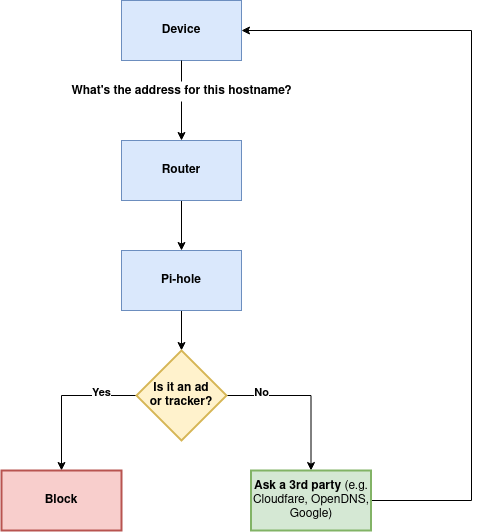
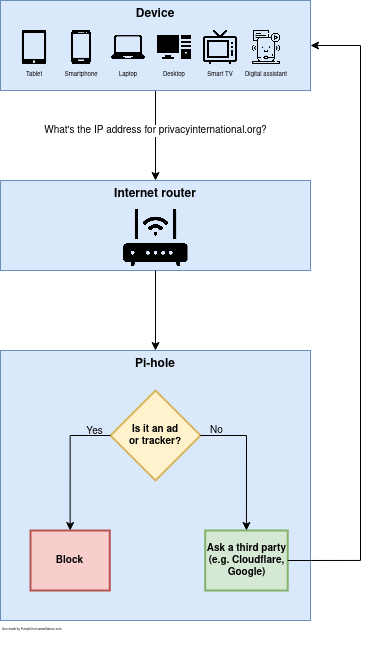
pi-hole update

diff --git a/guide-steps/pi-hole.md b/guide-steps/pi-hole.md
@@ -8,39 +8,31 @@ on your phone, and another on your tablet). In this guide you'll learn how to
 install and setup Pi-Hole, a general purpose network-wide ad-blocker, on a
 Raspberry Pi to block ads on any device connected to your home network.
 
-<!-- In some cases, for instance smart -->
-<!-- TVs, it's not even possible to install an ad-blocker. Pi-Hole is a general -->
-<!-- purpose network-wide ad-blocker, that when installed will block ads on **any** -->
-<!-- device connected to your home network, which means you manage your ad-blocking -->
-<!-- on one place and have these changes automatically pushed to your connected -->
-<!-- devices. -->
-
-<!-- In this guide you'll learn how to install and setup Pi-Hole on a Raspberry Pi. -->
-
 # Body #
 
 ## Overview ##
 
-Pi-hole is a DNS ad-blocker that protects your network from ads and trackers
-without requiring any setup on individual devices. As such, it is able to block
-ads on any network device (e.g. smart appliances), and, unlike browser add-ons,
-Pi-hole will prevent ads from being displayed on any type of software.
+Pi-hole is a general purpose network-wide ad-blocker that protects your network
+from ads and trackers without requiring any setup on individual devices. It is
+able to block ads on any network device (e.g. smart appliances), and, unlike
+browser add-ons, Pi-hole blocks ads on any type of software.
 
 The general setup works as follows (Fig. 1). You install Pi-hole on your server
 (in this case, we're using a Raspberry Pi) and assign it a static IP address. On
 your router, you set the DNS primary server to the Pi-hole IP address. When a
 device connects to your home network, it gets the Pi-hole IP address as its main
-DNS server. When your device looks up the address for a hostname, it contacts
-the Pi-hole. If the host is an ad or tracker, the request is instantly blocked.
-Otherwise, the lookup is performed on some upstream server of your choice (e.g.
-OpenDNS, Cloudflare, GoogleDNS, your ISP).
+DNS server from your router. When your device looks up the address for a
+hostname, it contacts the Pi-hole. If the host is an ad or tracker, the request
+is instantly blocked. Otherwise, the lookup is performed on some upstream server
+of your choice (e.g. OpenDNS, Cloudflare, GoogleDNS, your ISP).
 
 ![Fig. 1: Pi-hole setup overview](../images/Pihole/overview.png?raw=true)
 
 ## Prerequisites ##
 To deploy Pi-hole on your home network, make sure you have all of the following:
 
-- A Raspberry Pi with at least 512MB of RAM (all Raspberry Pi versions satisfy this requirement).
+- A Raspberry Pi with at least 512MB of RAM (all Raspberry Pi versions satisfy
+  this requirement) and Raspbian installed.
 - An SD-card with at least 2GB of free space.
 - Internet connection on your Raspberry Pi. Either via Wi-Fi (if available)
       or via Ethernet cable.
@@ -122,46 +114,20 @@ password. You should now be in the Pi-hole admin panel (Fig. 10).
 ![Fig. 10: Pi-hole admin panel](../images/Pihole/admin.png?raw=true)
 
 ## Setup ##
-Now that you have Pi-hole installed, the last step is configuring your devices
-to use Pi-hole as their DNS server. You can do so in the following ways:
+Now that you have Pi-hole installed, the last step is configuring your network
+to use Pi-hole as its DNS server
 
-1. Change your router's DNS server and point it to the Pi-hole IP address,
-   ensuring any client that connects to your network receives the Pi-hole as its
-   DNS server.
-2. Disable DHCP on your router and enable it on the Pi-hole.
-<!-- Manually setup each client, changing its DNS primary server to match the -->
-<!--    Pi-hole IP address. -->
+The preferred method for doing this is to change your router's DNS server and
+point it to the Pi-hole IP address, ensuring any client that connects to your
+network receives the Pi-hole as its DNS server. Typically this requires you to
+access the router's administration panel. There, you should have a field to set
+the primary and secondary DNS servers. Set the primary address to the Pi-hole's
+IP address, and reset any open network connection you may have on your devices.
+Now, when you connect to your home network, you should get the Pi-hole as the
+DNS server.
 
-The first method is preferred as you only have to do it once. However, it's not
-always possible as some routers do not allow you to change the DNS settings.
-Check your router's documentation to learn how to change its DNS servers.
-Typically this requires you to access the router's administration panel. There,
-you should have a field to set the primary and secondary DNS servers. Set the
-primary address to the Pi-hole's IP address, and reset any open network
-connection you may have on your devices. Now, when you connect to your home
-network, you should get the Pi-hole as the DNS server.
-
-If you're unable to change your router's DNS settings, you'll have to manually
-configure each device to use the Pi-hole address as DNS server. The caveat,
-besides involving more manual labour, is that this method only works on devices
-on which you can change the DNS settings (which is not always the cases for
-instance in smart appliances). This should be relatively straightforward, and
-you can find many guides online on how to change DNS settings on a particular
-device/operating system (e.g [Google's DNS
-documentation](https://developers.google.com/speed/public-dns/docs/using) covers
-the most common devices).
-
-Note that there is also a more advanced alternative which involves setting the
-Pi-hole as the DHCP server, instead of your router. Refer to the [official
+However, some routers do not allow you to change the DNS settings. In this case,
+you can set the Pi-hole as your DHCP server (and in doing so, you need to
+disable your router's own DHCP server). Refer to the [official Pi-hole
 documentation](https://discourse.pi-hole.net/t/how-do-i-use-pi-holes-built-in-dhcp-server-and-why-would-i-want-to/3026)
 to learn how to do so.
-
-
-<!-- ## Further configuration ## -->
-<!-- After following this guide you should have a working installation of Pi-hole -->
-<!-- which is assigned as the DNS servers of devices inside your home network. If you -->
-<!-- wish to fine-tune your installation, consult the Pi-hole documentation. -->
-
-<!-- If you wish to be able to use your Pi-hole instance *outside* of your home -->
-<!-- network, you'll need to either setup a VPN or expose port 53 in your router to -->
-<!-- the world. -->
